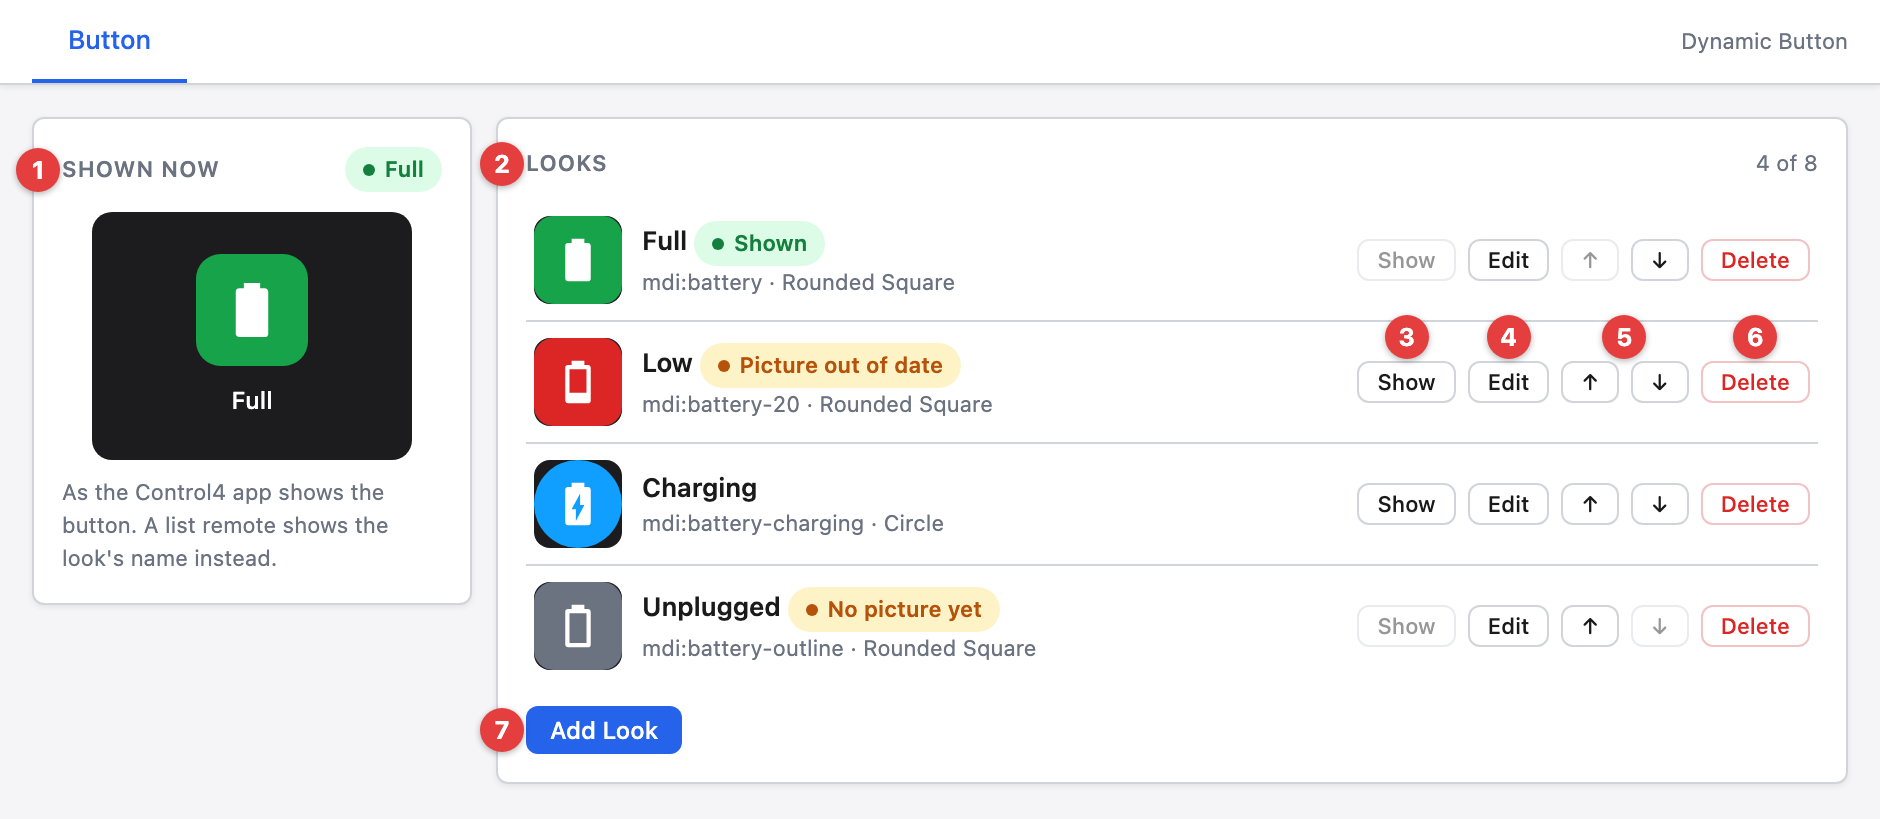
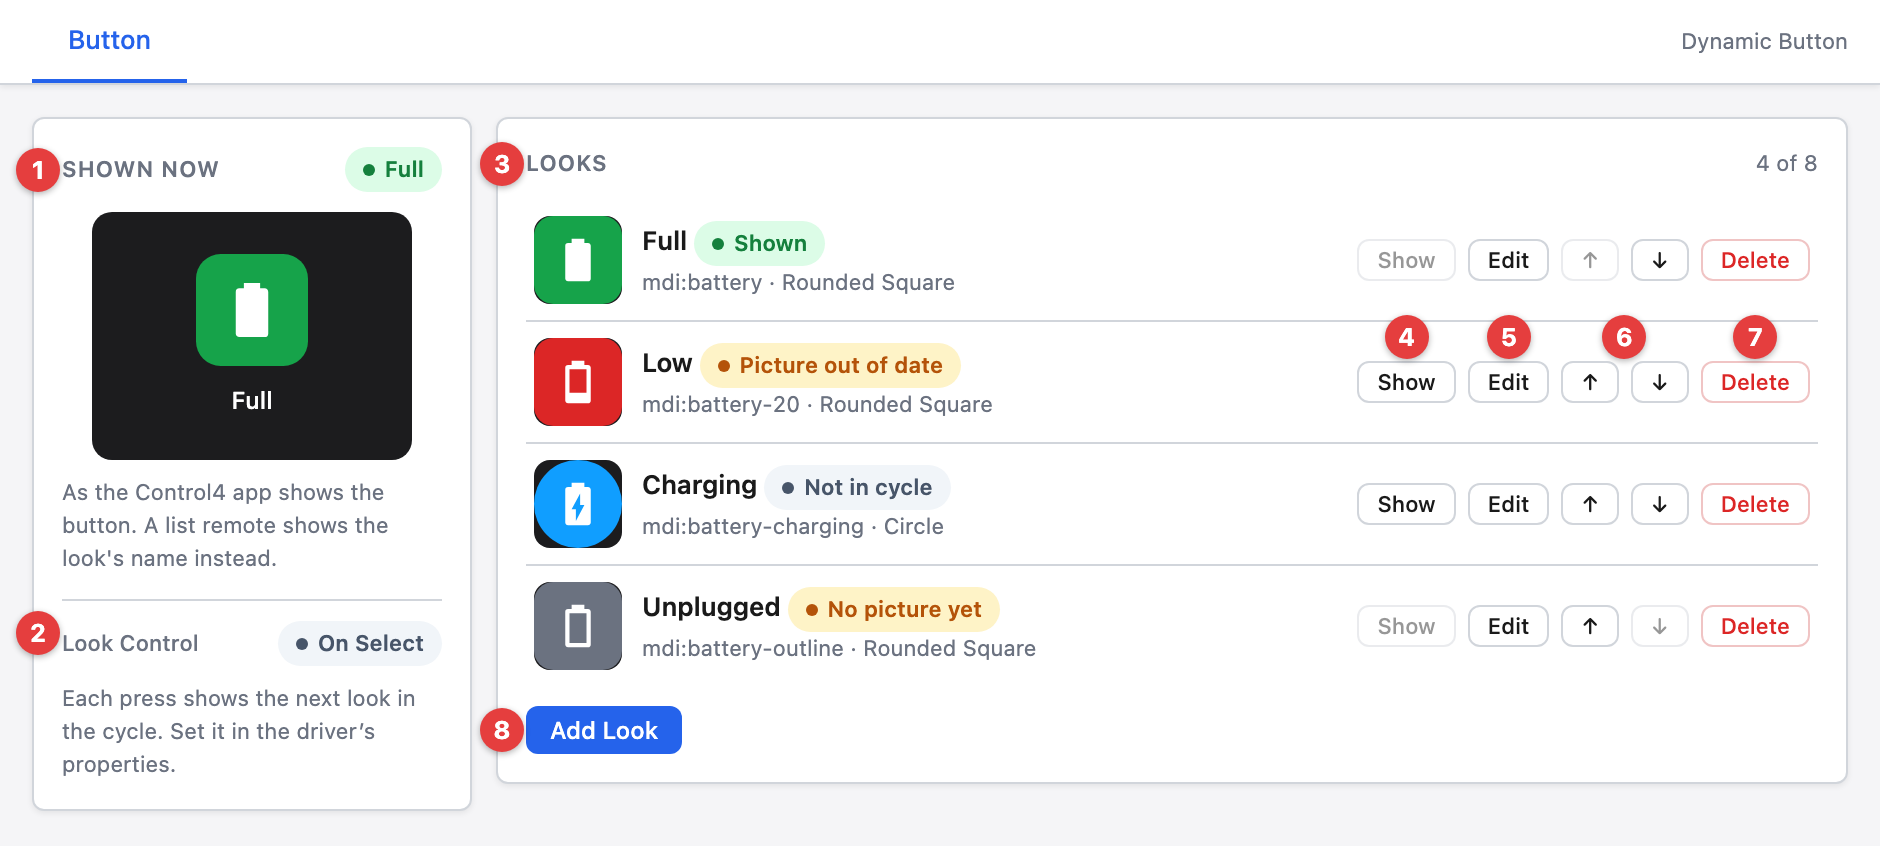
docs: Look Control, cycling through looks and each look's Shown event
A Cycling Through Looks section walks through per-look programming, the Look Control property and the new commands and events are documented, the Reset warning names the events, and the Looks and Look Editor screenshots are retaken for the new controls.

diff --git a/drivers/dynamic_button/www/documentation/index.md b/drivers/dynamic_button/www/documentation/index.md
@@ -47,6 +47,7 @@ the programming you attach to it.
     - [Looks](#looks)
     - [Look Editor](#look-editor)
     - [Icon Search](#icon-search)
+  - [Cycling Through Looks](#cycling-through-looks)
   - [Driver Setup](#driver-setup)
     - [Driver Properties](#driver-properties)
       - [Cloud Settings](#cloud-settings)
@@ -76,8 +77,10 @@ the programming you attach to it.
   colors and tile shape you pick
 - About 280 included icons that work with no internet, and a search across
   fourteen free icon packs
-- A Show Look programming command, a Look variable, a Look Changed event and a
-  Look Is conditional
+- Look Control: each press shows the next look in the cycle, or the look changes
+  only from programming
+- Show Look, Next Look and Previous Look programming commands, a Look variable,
+  a Look Changed event, an event for each look and a Look Is conditional
 - The button's picture updates in Navigator as soon as programming changes it
 
 # <span style="color:#109EFF">Installer Setup</span>
@@ -156,16 +159,18 @@ the button's looks.
 
 1. **Shown now** - the button as the Control4 app shows it, with the name of the
    look it shows, or `Driver icon` until a look has a picture.
+1. **Look Control** - what a press of the button does, as the
+   [Look Control](#look-control--on-select--manual-) property sets it.
 1. **Looks** - each look with its picture, name, icon and tile shape. `Shown`
    marks the look the button shows. `No picture yet` marks a look whose picture
    has not reached the driver, and `Picture out of date` a look edited since its
    picture was sent: Navigator shows the earlier picture until the look is saved
-   again.
+   again. `Not in cycle` marks a look left out of the cycle.
 1. **Show** - shows the look now. It is off for the shown look and for a look
    with no picture.
 1. **Edit** - opens the look in the editor.
-1. **↑ / ↓** - moves the look up or down. Programming lists the looks in this
-   order.
+1. **↑ / ↓** - moves the look up or down. The button cycles through the looks in
+   this order, and programming lists them in it.
 1. **Delete** - deletes the look and its picture, after a second press on
    `Confirm Delete`. Deleting the shown look shows the first remaining look with
    a picture, or the driver's own icon when none has one.
@@ -183,6 +188,8 @@ the button's looks.
    the icon is drawn on its own, larger.
 1. **Icon color** - the color the icon is drawn in.
 1. **Tile color** - the color of the tile behind the icon.
+1. **In cycle** - when off, presses, Next Look and Previous Look pass over the
+   look. Show Look can still show it.
 1. **Included icons / Search online** - picks from the icons included with the
    driver, which work with no internet, or from the free icon packs online. See
    [Icon Search](#icon-search).
@@ -213,6 +220,29 @@ the button's looks.
    the look.
 1. **Icons found** - how many icons the search found, and how many of them the
    style shows.
+
+## Cycling Through Looks
+
+Set the [Look Control](#look-control--on-select--manual-) property to
+`On Select` to make each press of the button show the next look. The button
+steps through the looks in the order the Button tab lists them, from the last
+look back to the first, and passes over a look with **In cycle** off or with no
+picture yet. With `Manual`, a press leaves the look as it is and only
+programming changes it. Show Look, Next Look and Previous Look work in both
+modes.
+
+Each look has its own event: the look's name followed by `Shown`. It fires when
+that look becomes the shown look, from a press, from programming or from the
+Button tab. To run something different for each look:
+
+1. Set **Look Control** to `On Select`.
+1. In the "Programming" view, select the button under "Device Events".
+1. Select a look's `Shown` event and add the commands it should run.
+1. Repeat for each look.
+
+Renaming a look renames its event and keeps its programming. Deleting a look
+deletes its event and the programming on it. The shown look stays through a
+Director restart and a driver update, and no event fires when the driver starts.
 
 ## Driver Setup
 
@@ -284,6 +314,12 @@ address is removed.
 
 #### Button Settings
 
+##### Look Control \[ On Select | **_Manual_** \]
+
+Sets what a press of the button does. `On Select` shows the next look in the
+cycle, and `Manual` leaves the look as it is for programming to change. The
+button's own Selected event fires on every press in both modes.
+
 ##### Shown Look (read-only)
 
 Displays the name of the look the button shows, or nothing while it shows the
@@ -302,12 +338,13 @@ Button, regardless of the current version.
 
 #### Reset Driver
 
-> WARNING: Reset Driver deletes every look and its picture. They cannot be
-> brought back.
+> WARNING: Reset Driver deletes every look, its picture, and its `Shown` event
+> with the programming on it. They cannot be brought back.
 
-Returns the driver to a fresh install: it deletes every look and its picture,
-shows the driver's own icon, and returns the properties to their defaults. The
-button keeps its place in Navigator and the programming that uses it.
+Returns the driver to a fresh install: it deletes every look with its picture
+and its `Shown` event, shows the driver's own icon, and returns the properties
+to their defaults, with Look Control back to `Manual`. The button keeps its
+place in Navigator and the programming on its other events and commands.
 Programming that names a deleted look does nothing, even after a new look takes
 the same name: choose the new look in that programming.
 
@@ -328,12 +365,15 @@ Monitoring is Enabled.
 
 ### Commands
 
-| Command   | Parameters | Description                  |
-| --------- | ---------- | ---------------------------- |
-| Show Look | Look       | Shows the look on the button |
+| Command       | Parameters | Description                                         |
+| ------------- | ---------- | --------------------------------------------------- |
+| Show Look     | Look       | Shows the look on the button, in the cycle or not   |
+| Next Look     |            | Shows the next look in the cycle, as a press does   |
+| Previous Look |            | Shows the previous look in the cycle, wrapping back |
 
-Looks show in programming as their name and number. The command finds the look
-by its number, so programming keeps working after the look is renamed.
+Looks show in programming as their name and number. Show Look finds the look by
+its number, so programming keeps working after the look is renamed. Next Look
+and Previous Look work whatever Look Control is set to.
 
 ### Variables
 
@@ -343,10 +383,11 @@ by its number, so programming keeps working after the look is renamed.
 
 ### Events
 
-| Event        | Description                                                        |
-| ------------ | ------------------------------------------------------------------ |
-| Look Changed | Fires when the button shows a different look                       |
-| Selected     | The button's own event in Navigator: fires when someone presses it |
+| Event           | Description                                                        |
+| --------------- | ------------------------------------------------------------------ |
+| Look Changed    | Fires when the button shows a different look                       |
+| _\<look>_ Shown | One for each look: fires when that look becomes the shown look     |
+| Selected        | The button's own event in Navigator: fires when someone presses it |
 
 ### Conditionals
 

diff --git a/CHANGELOG.md b/CHANGELOG.md
@@ -30,3 +30,9 @@ Template for a new release entry (copy below the heading, fill in, uncomment):
   by outline or filled style
 - Added a Show Look command, a `Look` variable, a Look Changed event and a Look
   Is conditional
+- Added the Look Control property: `On Select` shows the next look on each press
+  of the button, and `Manual` leaves the look to programming
+- Added Next Look and Previous Look commands, and an In cycle setting for each
+  look that presses and both commands pass over when it is off
+- Added an event for each look, named for the look, that fires when it becomes
+  the shown look
